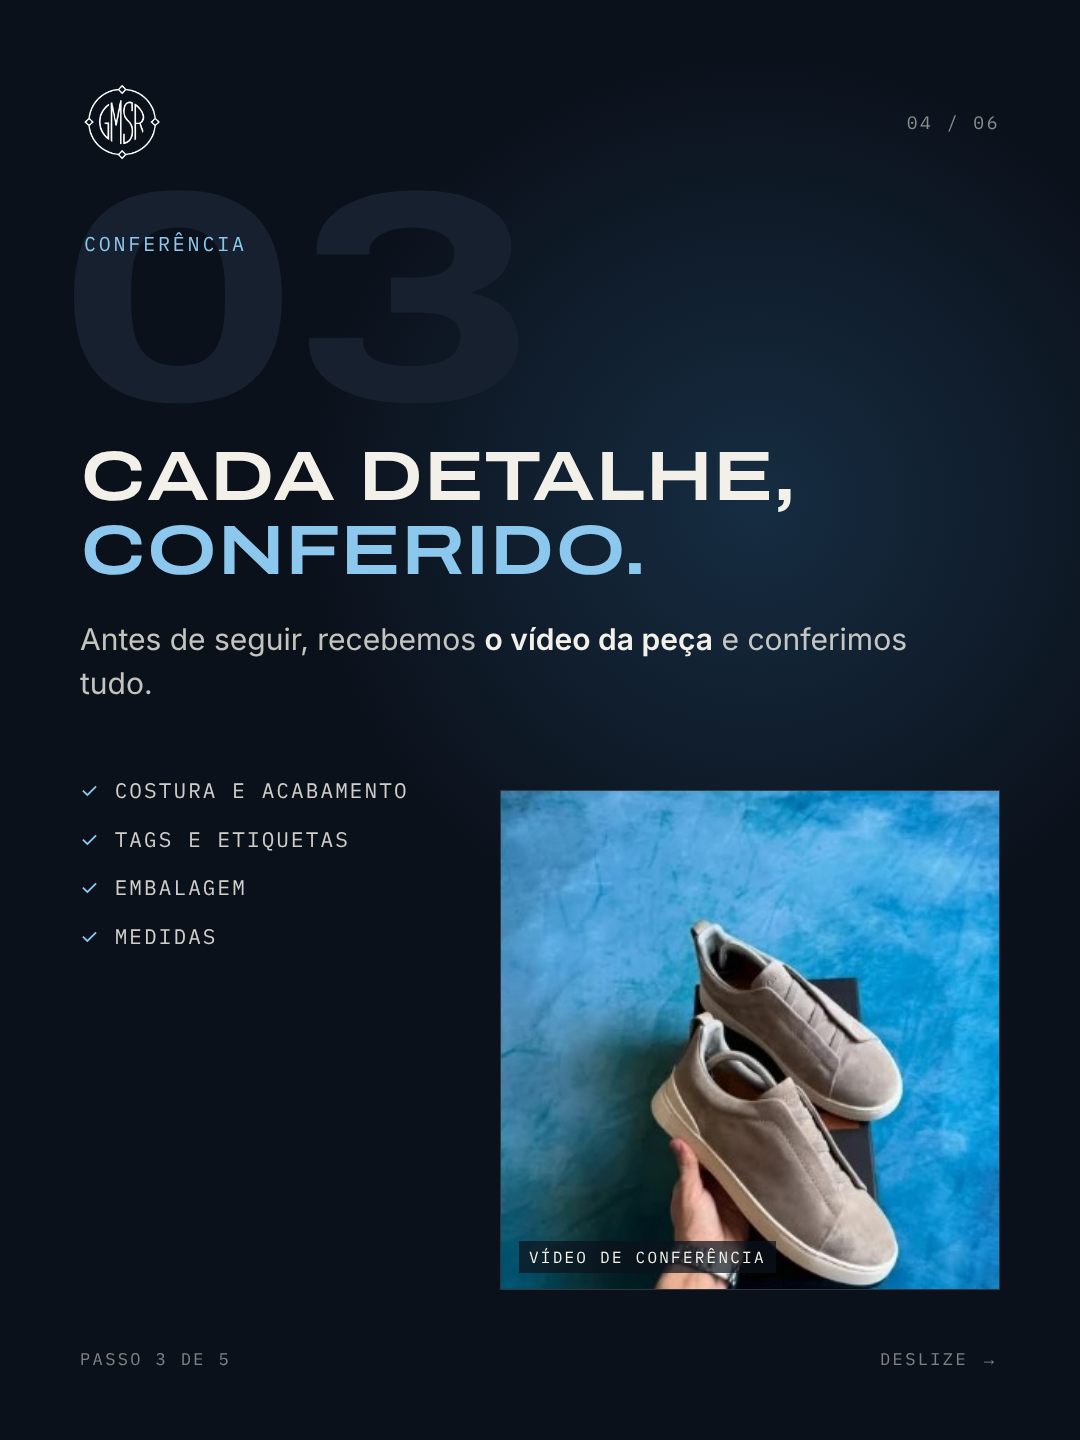
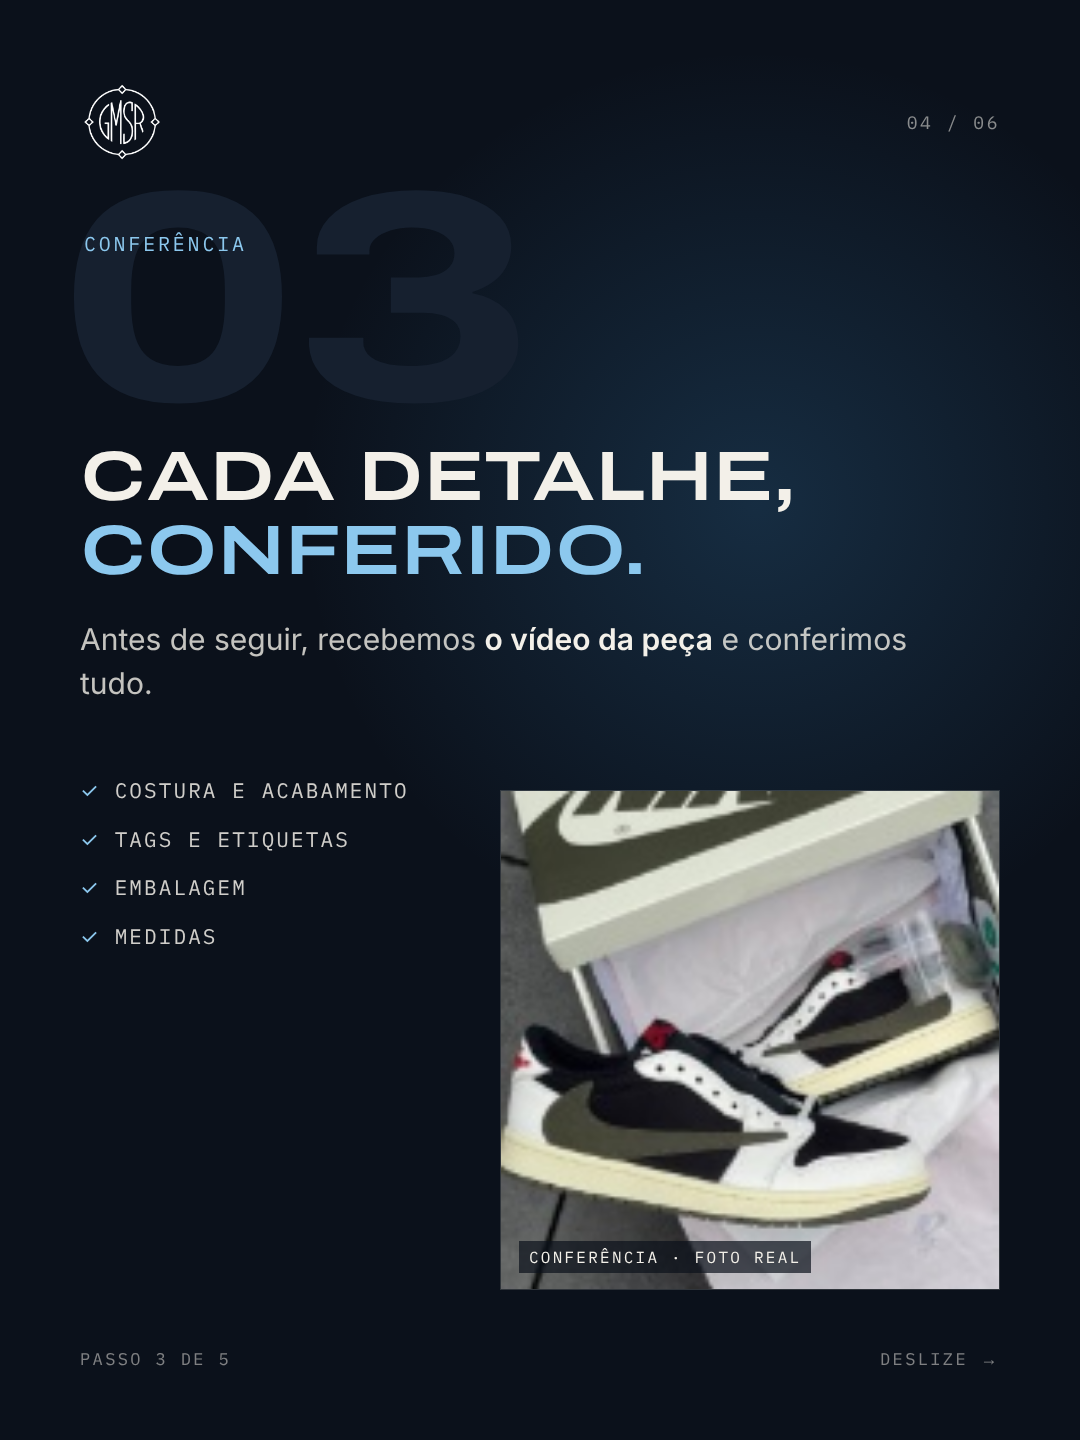
Carrossel: foto real da conferência no slide 03
Claude-Session: https://claude.ai/code/session_018Rxm36svjxPgU3W8TLCnbb

Changed region(s): [[0.4583, 0.5312, 0.9472, 0.9062]]

diff --git a/posts-grade/03-carrossel-processo/slides.html b/posts-grade/03-carrossel-processo/slides.html
@@ -159,7 +159,7 @@
   <div class="body"><div class="w h">Cada detalhe,<br><em>conferido.</em></div>
     <p style="max-width:900px">Antes de seguir, recebemos <b>o vídeo da peça</b> e conferimos tudo.</p>
     <div class="chips"><div><i>✓</i>Costura e acabamento</div><div><i>✓</i>Tags e etiquetas</div><div><i>✓</i>Embalagem</div><div><i>✓</i>Medidas</div></div></div>
-  <div class="ph"><img src="../../assets/fotos/zegna.jpg" alt=""><span>Vídeo de conferência</span></div>
+  <div class="ph"><img src="../../assets/fotos/conferencia-tenis.jpg" style="object-position:35% 50%" alt=""><span>Conferência · foto real</span></div>
   <div class="foot mono"><span>Passo 3 de 5</span><span>Deslize →</span></div></div></section>
 
 <!-- 05 · APROVAÇÃO -->
